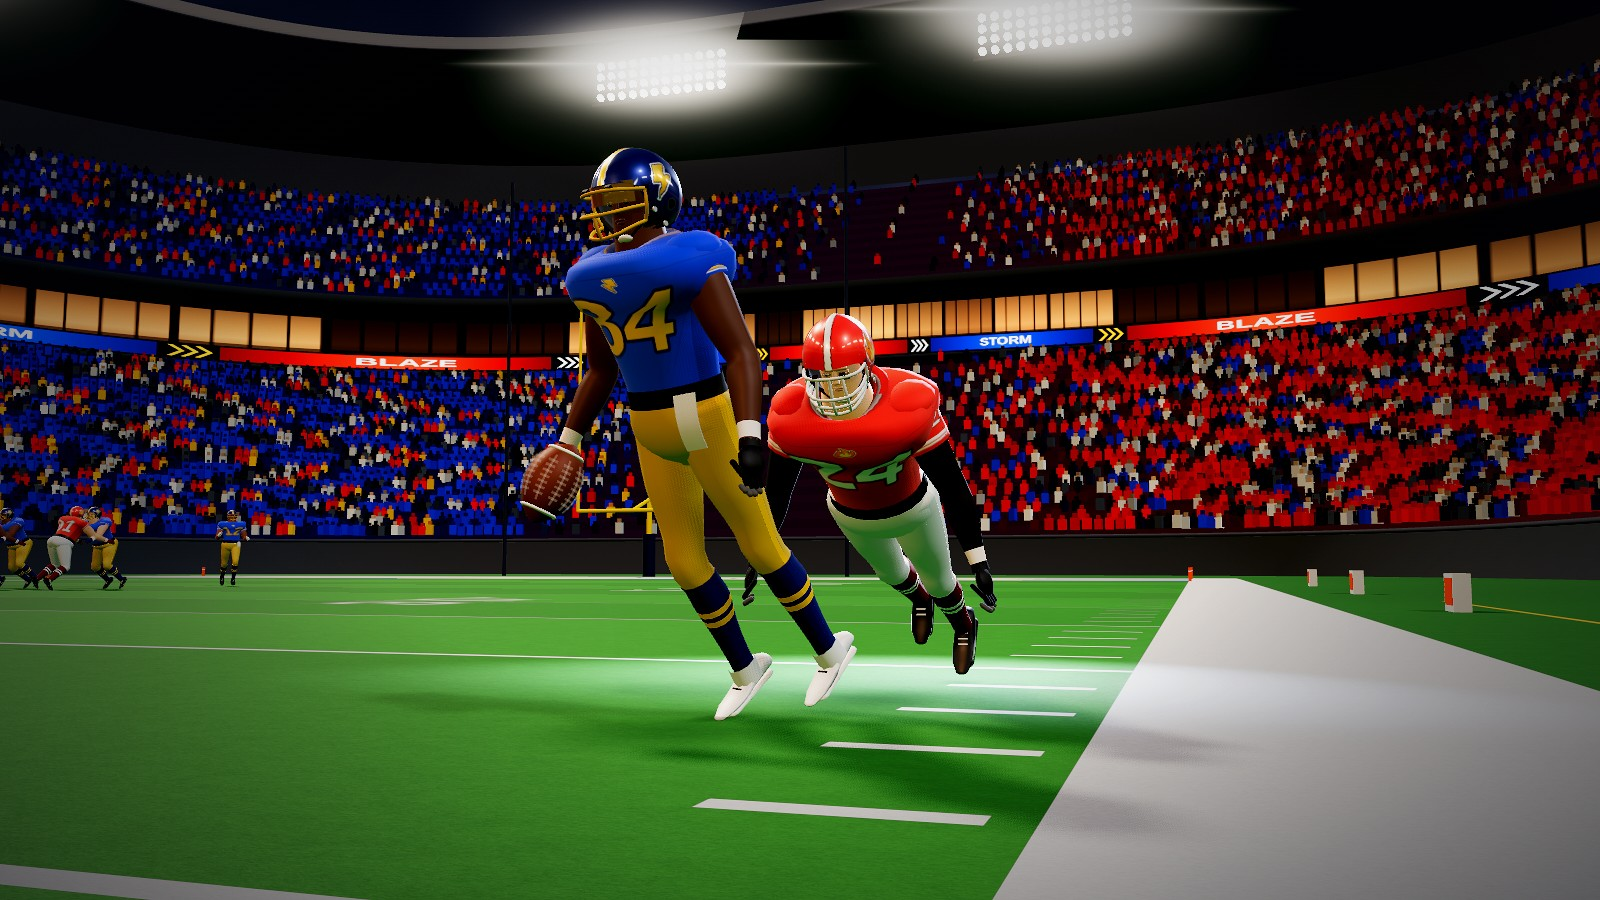
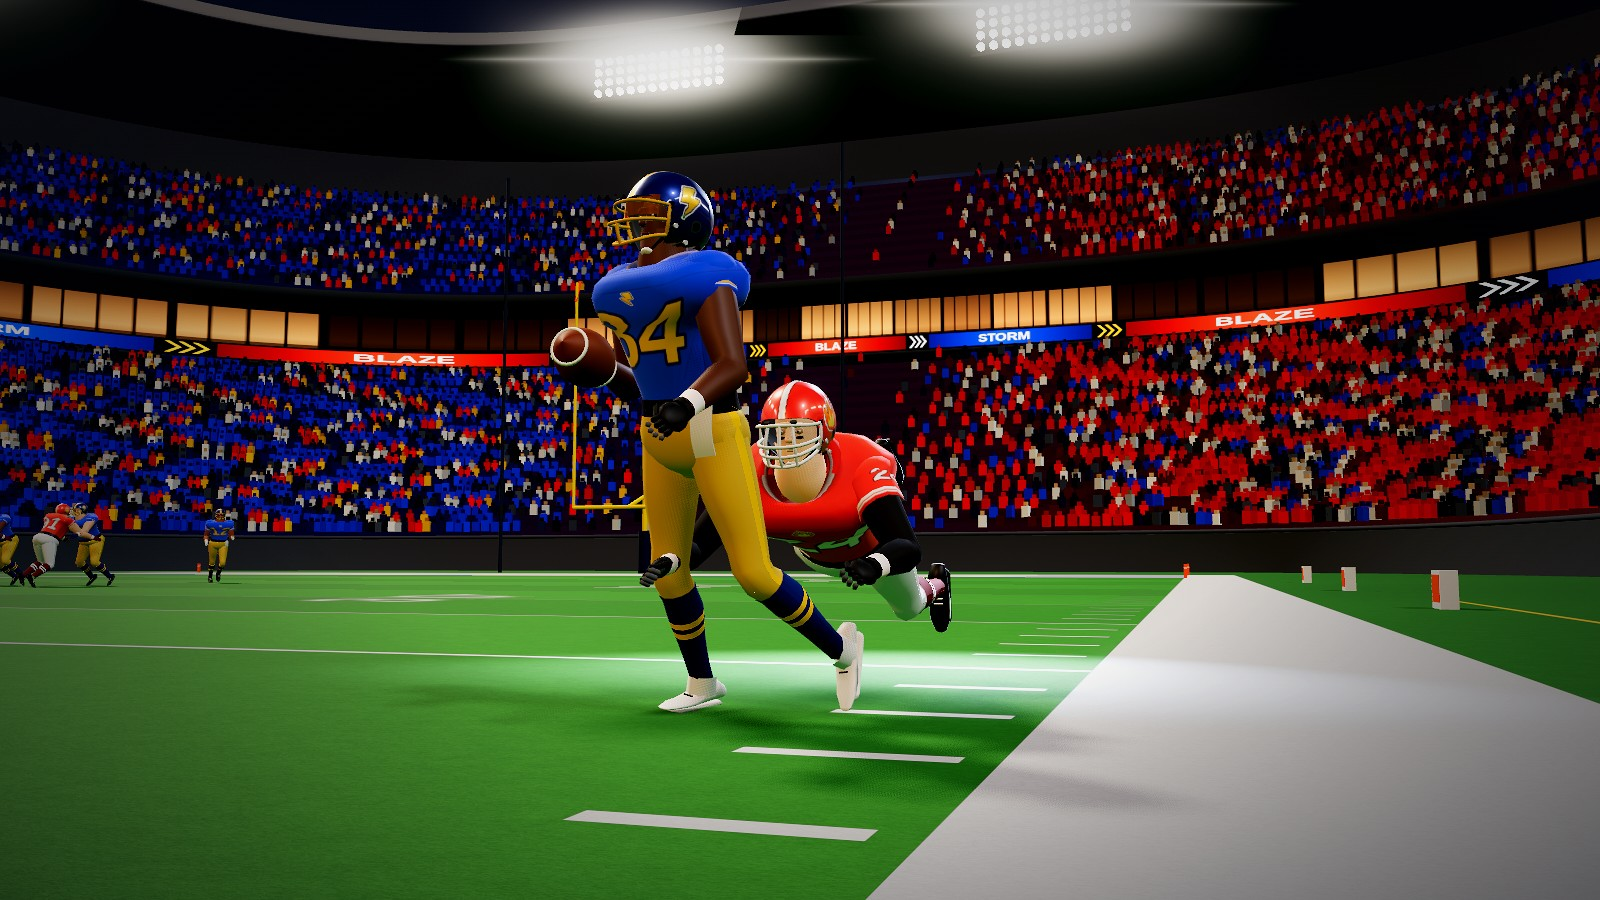
Hold the Football 3v3 poster on a planted stride
At 6.45 the runner was mid juke hop with both feet up and looked like he was hovering. At 6.31 his foot is down in a real sprint while the corner dives in.

Claude-Session: https://claude.ai/code/session_01D1DBDL5jLRnzHEGNERorxo

diff --git a/src/games/football-3v3/showcase/stills.ts b/src/games/football-3v3/showcase/stills.ts
@@ -34,7 +34,8 @@ function coverCam(view: MatchView): FilmCam {
 /** The home screen's stills, held from the trailer. */
 export const STILLS: Partial<Record<ShowcaseView, Still>> = {
   // The corner flying in at the runner a beat before the hit, the goal posts behind them.
-  poster: { t: 6.45 },
+  // Held on a planted stride: from about 6.35 the runner hops the juke with both feet up and reads as hovering.
+  poster: { t: 6.31 },
   // The juke in the big hit shot, a beat before contact: the runner and the ball at us, the tackler diving in beside him.
   icon: { t: 6.1, key: 2.5, camera: coverCam },
 };
